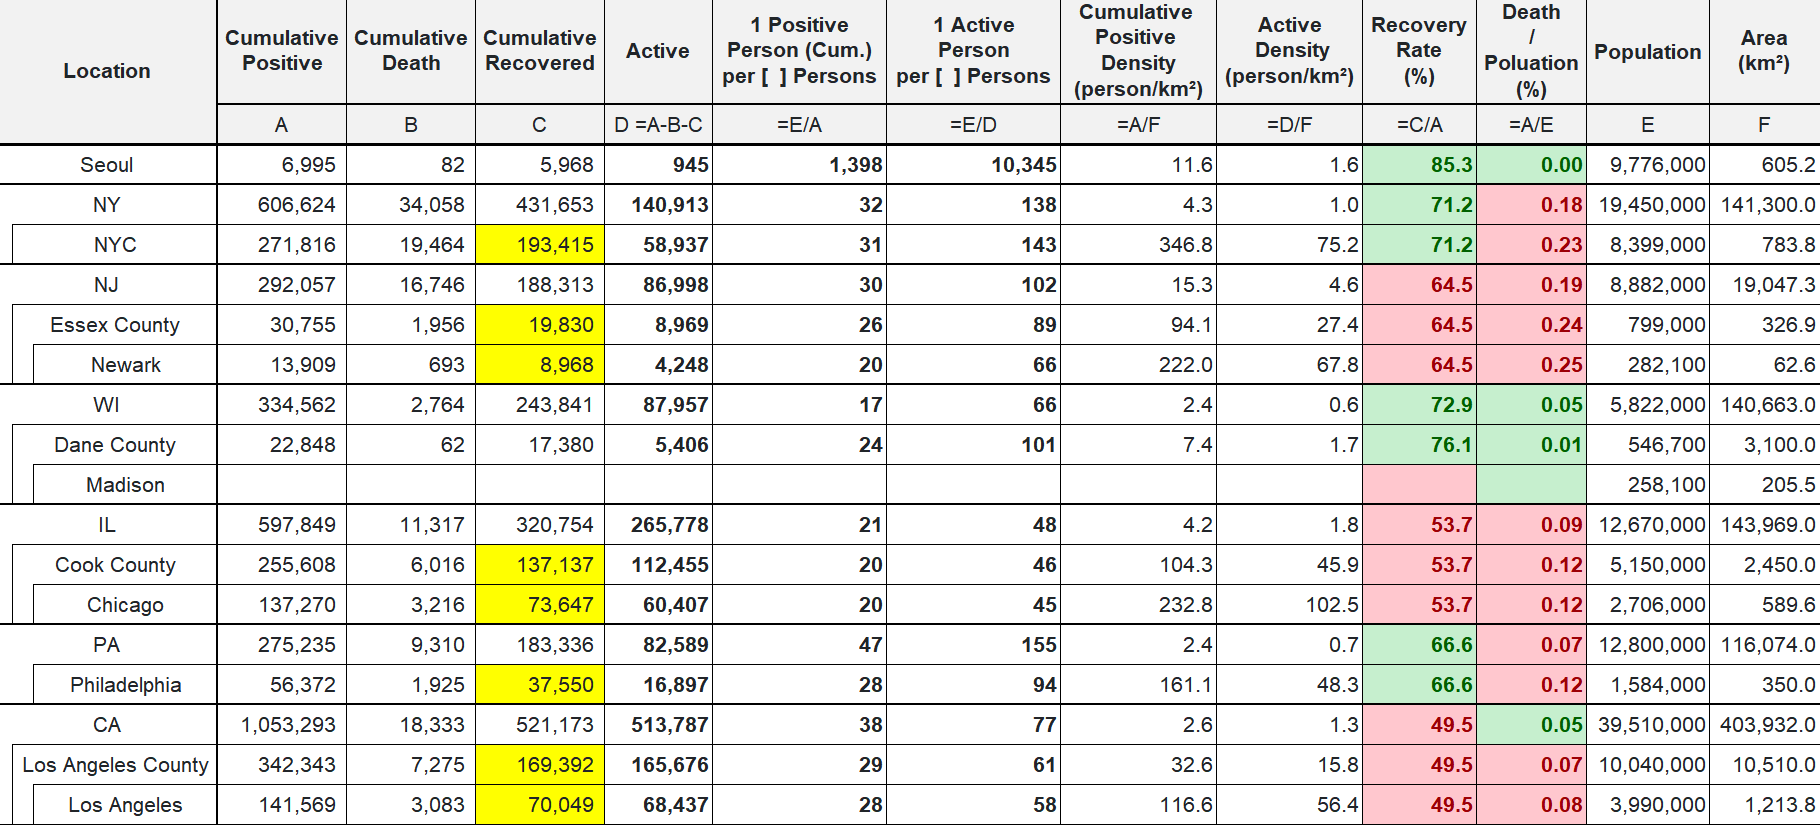
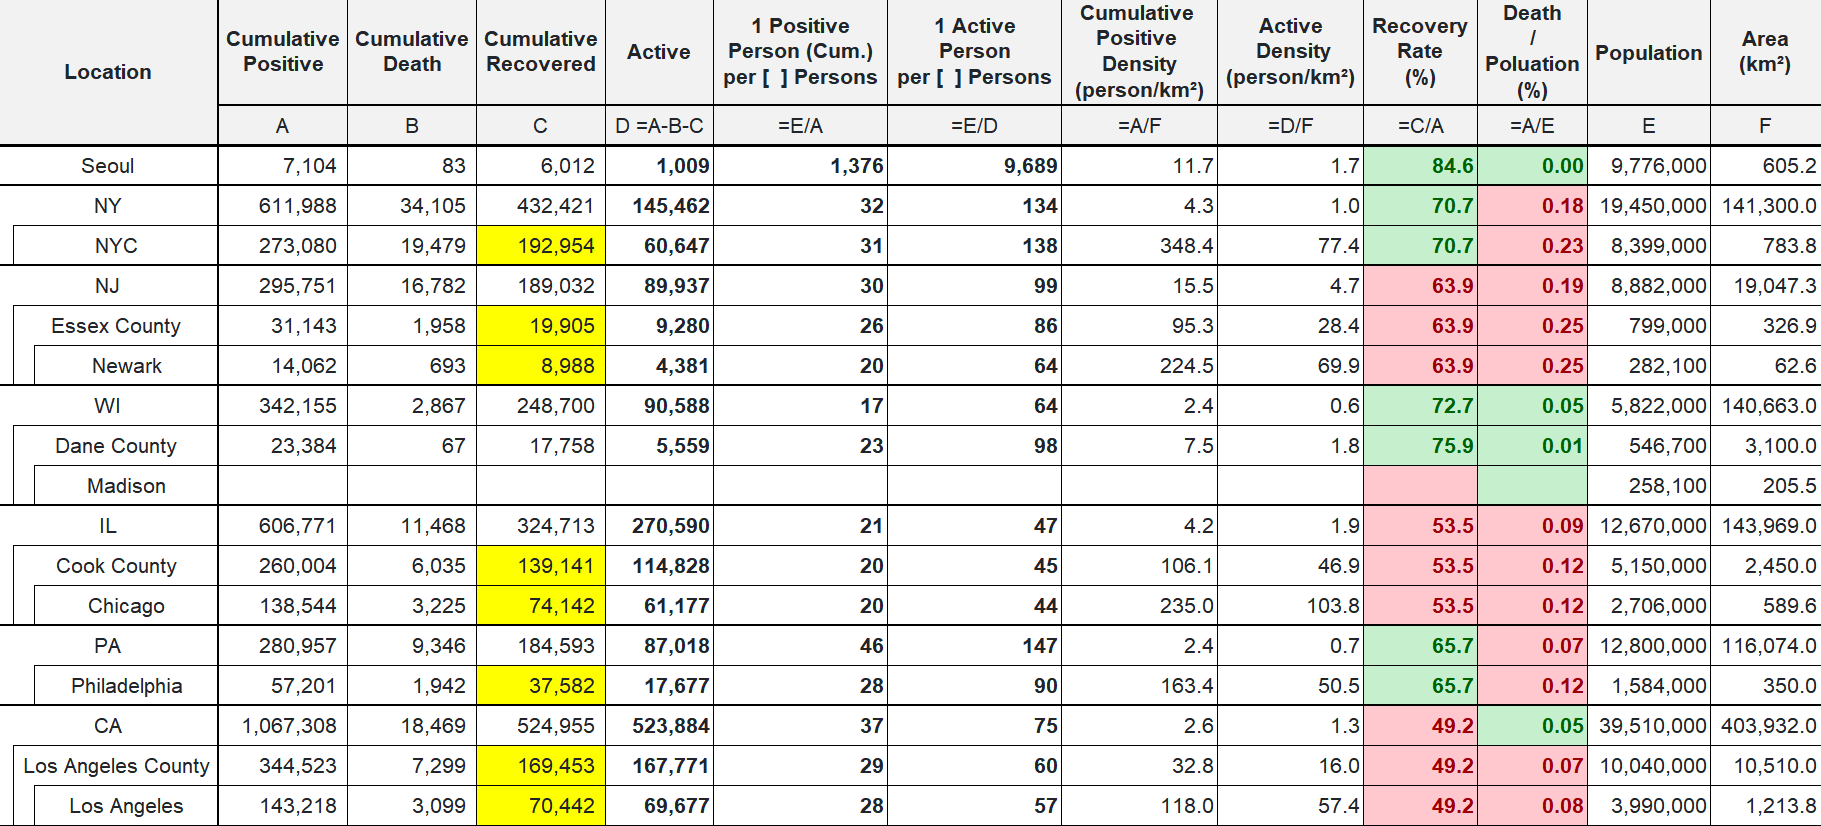
update 11/18 status

diff --git a/index.html b/index.html
@@ -19,7 +19,7 @@
 
 <body class="container-fluid">
 	<h1> CoronaV for Friends</h1>
-	<h2> Data updated at Nov 18 2020 EST 00:40</h2>
+	<h2> Data updated at Nov 18 2020 EST 23:20</h2>
 	<hr>
 	<main>
 		<div class="row">
